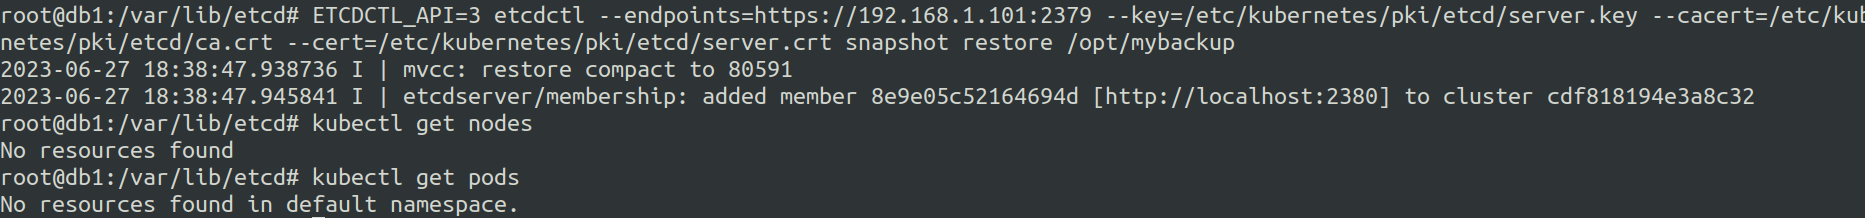
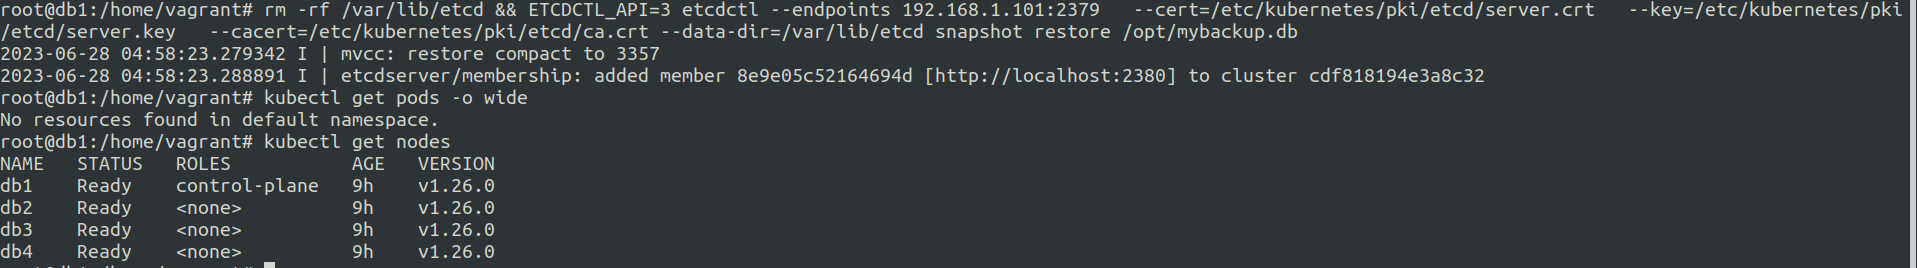
mod 1.6-1

Changed region(s): [[0.0, 0.0, 1.0, 1.0], [0.0, 0.8807, 0.2799, 1.0]]

diff --git a/docs/technical/Notes/k8s/k8s-1.6-1-backup-restore-etcd-clusterdata.md b/docs/technical/Notes/k8s/k8s-1.6-1-backup-restore-etcd-clusterdata.md
@@ -155,13 +155,13 @@ Restore using the command ```etcdctl snapshot restore /BACKUP/PATH/FILE```
 
 
 ```
-ETCDCTL_API=3 etcdctl --endpoints=https://192.168.1.101:2379 --key=/etc/kubernetes/pki/etcd/server.key --cacert=/etc/kubernetes/pki/etcd/ca.crt --cert=/etc/kubernetes/pki/etcd/server.crt snapshot restore /opt/mybackup
+rm -rf /var/lib/etcd && ETCDCTL_API=3 etcdctl --endpoints 192.168.1.101:2379   --cert=/etc/kubernetes/pki/etcd/server.crt   --key=/etc/kubernetes/pki/etcd/server.key   --cacert=/etc/kubernetes/pki/etcd/ca.crt --data-dir=/var/lib/etcd snapshot restore /opt/mybackup.db
 ```
 
 ![](../images/k8s-1.6-1/restore-using-command.png)
 
 
-pods status
 
-![](../images/k8s-1.6-1/6-nopods.png)
+**search_query**: etcd backup
 
+**ref**: https://kubernetes.io/docs/tasks/administer-cluster/configure-upgrade-etcd/
